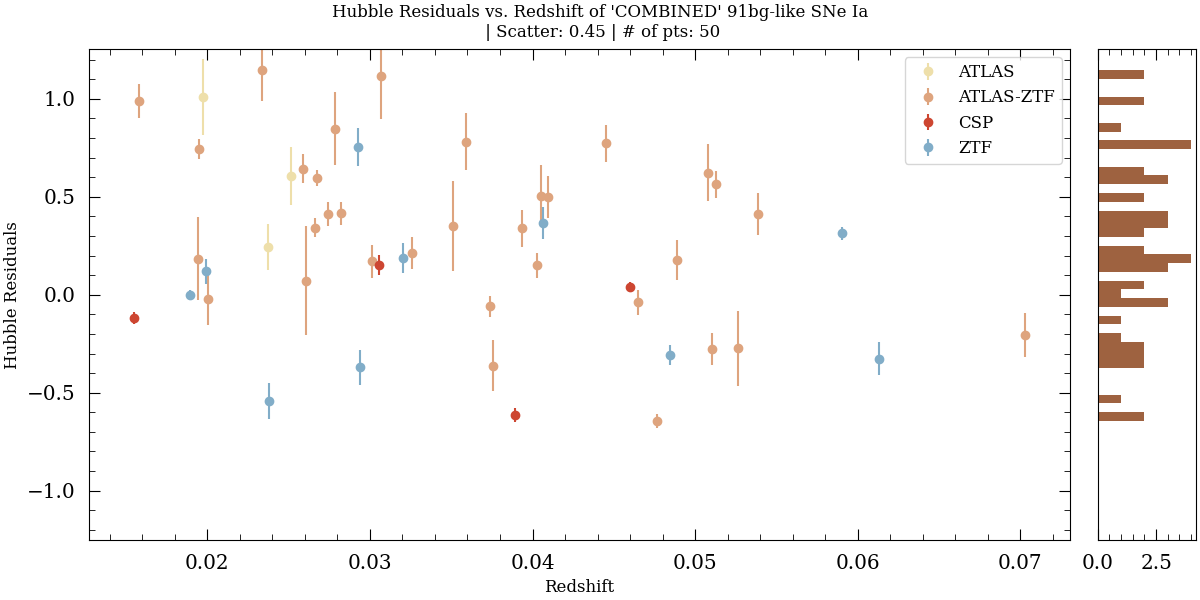
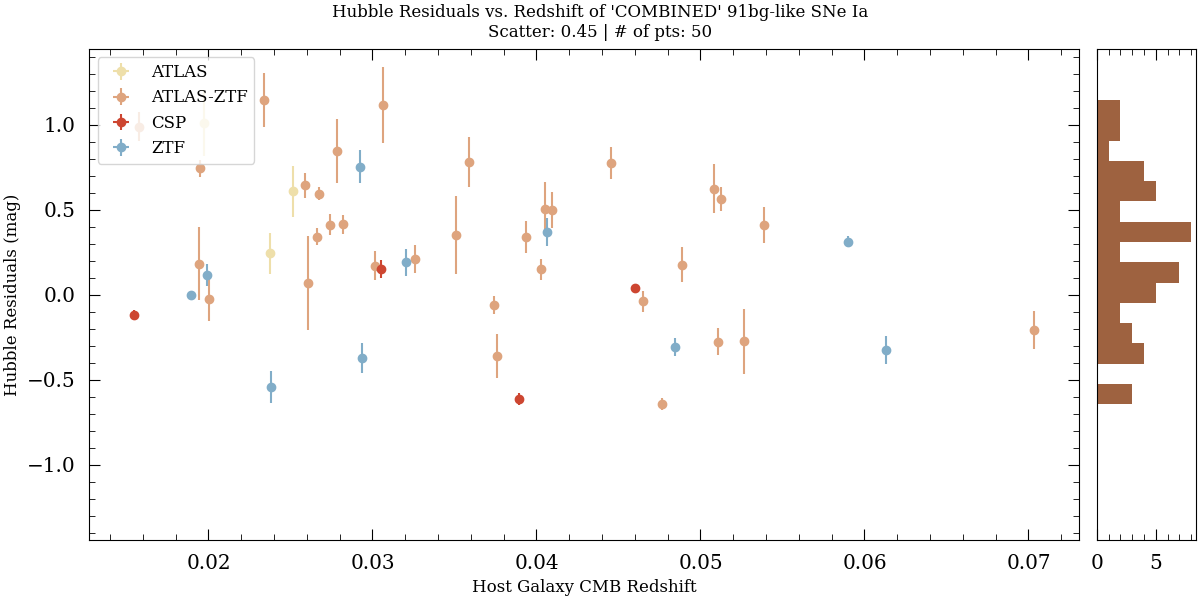
Adjustments to the hubble residual plotter

diff --git a/skul.py b/skul.py
@@ -997,7 +997,7 @@ def file_sample_cutter(path, algo, save=True):
                 f.write(line)
     return
 # ------------------------------------------------------------------------------------------------------------------- #
-def residual_plotter(path, x_params='Redshift', labels=False):
+def residual_plotter(path, x_params='z', labels=False):
     # Pull data from saved text
     data = np.genfromtxt(path, delimiter=', ', skip_header=1, dtype=str)
     data_set = path.split('/')[-1].split('_')[0].upper()
@@ -1012,40 +1012,51 @@ def residual_plotter(path, x_params='Redshift', labels=False):
     color_wheel = {'ZTF': '#81ADC8', 'ATLAS': '#EEDFAA', 'CSP': '#CD4631', 'ATLAS-ZTF': '#DEA47E'}
     key = {'ZTF': True, 'ATLAS': True, 'CSP': True, 'ATLAS-ZTF': True}
 
+    # Determine x-axis
+    if x_params == 'mass':
+        axs[0].set(xlabel=' Host Stellar Mass (log $M_{*}$/$[M_{\odot}]$)', ylabel='Hubble Residuals (mag)')  # Sub-plot Labels
+        x_axis, x_axis_err = data[:, 16].astype(float), data[:, 17].astype(float)
+        title = "Hubble Residuals vs. Host Stellar Mass of '"+data_set+"' 91bg-like SNe Ia\n"
+    elif x_params == 'z':
+        axs[0].set(xlabel='Host Galaxy CMB Redshift', ylabel='Hubble Residuals (mag)')  # Sub-plot Labels
+        x_axis, x_axis_err = data[:, 4].astype(float), np.full(len(data[:, 4]), np.nan)
+        title = "Hubble Residuals vs. Redshift of '"+data_set+"' 91bg-like SNe Ia\n"
+    else:
+        raise ValueError("[!!!] Invalid x_params ['mass'/'z']")
+
+
     # Plot points
     for origin in np.unique(data[:, 7]):
         indexs = np.where(data[:, 7] == origin)[0]
         resid_mu = data[:, 8].astype(float)[indexs] - gen.current_cosmo().distmod(data[:, 4].astype(float)[indexs]).value
         resid_mu_err = data[:, 9].astype(float)[indexs]
 
-        if x_params == 'Host Mass':
-            x_axis, x_axis_err = data[:, 16].astype(float)[indexs], data[:, 17].astype(float)[indexs]
-        elif x_params == 'Redshift':
-            x_axis, x_axis_err = data[:, 4].astype(float)[indexs], None
-        else:
-            raise ValueError("[!!!] Invalid x_params ['Host Mass'/'Redshift']")
-        axs[0].errorbar(x_axis, resid_mu, xerr=x_axis_err, yerr=resid_mu_err,
+        x_axis_plt, x_axis_err_plt = x_axis[indexs], x_axis_err[indexs]
+
+        axs[0].errorbar(x_axis_plt, resid_mu, xerr=x_axis_err_plt, yerr=resid_mu_err,
                         color=color_wheel[origin], fmt='o', label=origin)
+
         # Labels
         if labels:
             for i in range(len(resid_mu)):
-                axs[0].text(x_axis[i], resid_mu[i], str(data[:, 0][indexs][i]), size='x-small', va='top')
+                axs[0].text(x_axis_plt[i], resid_mu[i], str(data[:, 0][indexs][i]), size='x-small', va='top')
 
     # Plot histogram
     all_resid_mu = data[:, 8].astype(float) - gen.current_cosmo().distmod(data[:, 4].astype(float)).value
-    axs[1].hist(all_resid_mu, bins=40, orientation="horizontal", color='#9E6240')
+    axs[1].hist(all_resid_mu, bins=15, orientation="horizontal", color='#9E6240')
+
+    # Adjusting axies presentation
+    ylimiter = np.max(np.abs(all_resid_mu))+0.3
+    axs[0].set_ylim(-ylimiter, ylimiter); axs[1].set_ylim(-ylimiter, ylimiter)
+    # x_bot, x_top = np.min(x_axis)-0.3, np.max(x_axis)+0.3
+    # axs[0].set_xlim(x_bot, x_top)
 
     # Formatting
-    ylimiter = np.max(np.abs(resid_mu))+0.5
-    axs[0].set_ylim(-ylimiter, ylimiter); axs[1].set_ylim(-ylimiter, ylimiter)
-    fig.suptitle("Hubble Residuals vs. " + x_params + " of '"+data_set+"' 91bg-like SNe Ia -- "+algo, fontsize=15)
+    fig.suptitle(title + 'Scatter: ' + str(round(np.std(all_resid_mu), 2)) + ' | # of pts: ' + str(len(all_resid_mu)), # Figure Title
+                 size='medium')
 
-    fig.suptitle("Hubble Residuals vs. " + x_params + " of '"+data_set+"' 91bg-like SNe Ia\n" +  # Figure Title
-             ' | Scatter: ' + str(round(np.std(all_resid_mu), 2)) + ' | # of pts: ' + str(len(all_resid_mu)), size='medium')
-
-    axs[0].set(xlabel=x_params, ylabel='Hubble Residuals')  # Sub-plot Labels
     axs[1].get_yaxis().set_visible(False) # Turn off y-axis labels
-    axs[0].legend()
+    axs[0].legend(loc='upper left')
     print('Saved figure to... ', path[:-len(path.split('/')[-1])]+data_set.lower()+'_resid_v_'+x_params.lower()+'.png')
     plt.savefig(path[:-len(path.split('/')[-1])]+data_set.lower()+'_resid_v_'+x_params.lower()+'.png')
     plt.show()
@@ -1243,6 +1254,13 @@ def dr3_run():
 
 if __name__ == '__main__':
     start = systime.time() # Runtime tracker
+
+    # hiloCAT19bg_cut = np.genfromtxt('output/COMBINED_combined_snpy_cut_params.txt')
+    # hiloCAT19bg_uncut = np.genfromtxt('output/COMBINED_combined_snpy_uncut_params.txt')
+
+    residual_plotter('output/COMBINED_combined_snpy_cut_params.txt', x_params='mass', labels=False)
+    residual_plotter('output/COMBINED_combined_snpy_cut_params.txt', x_params='z', labels=False)
+
 
     print('|---------------------------|\n Run-time: ', round(systime.time() - start, 4), 'seconds\n|---------------------------|')
 
